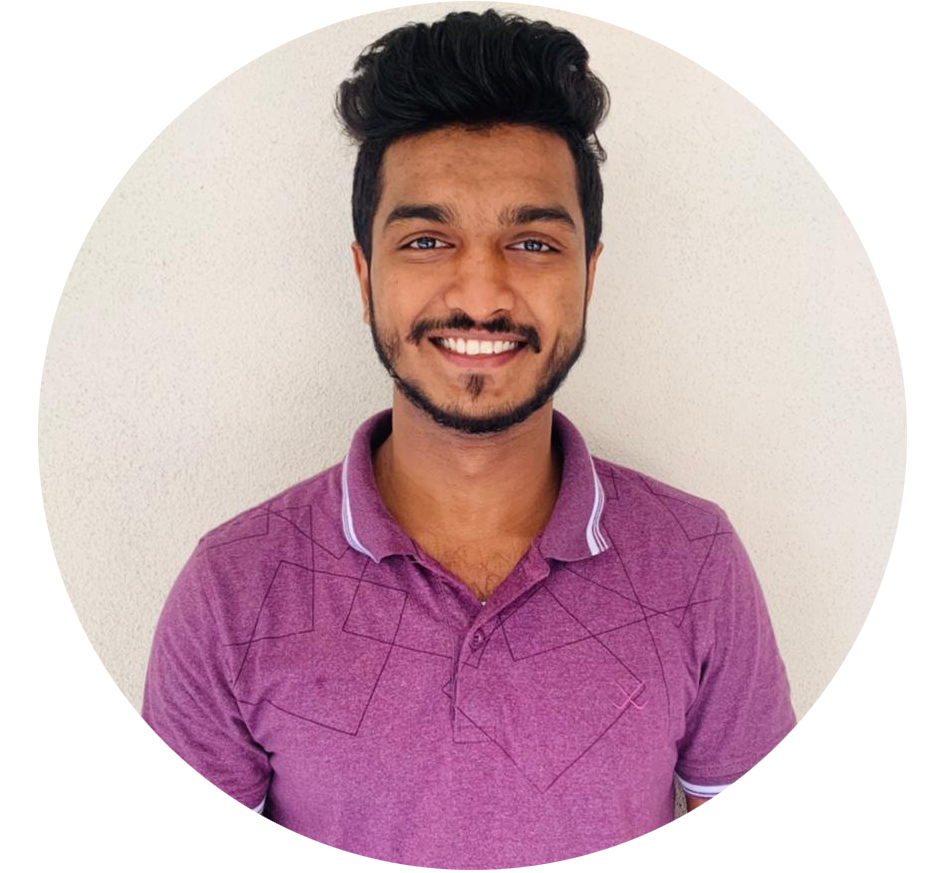
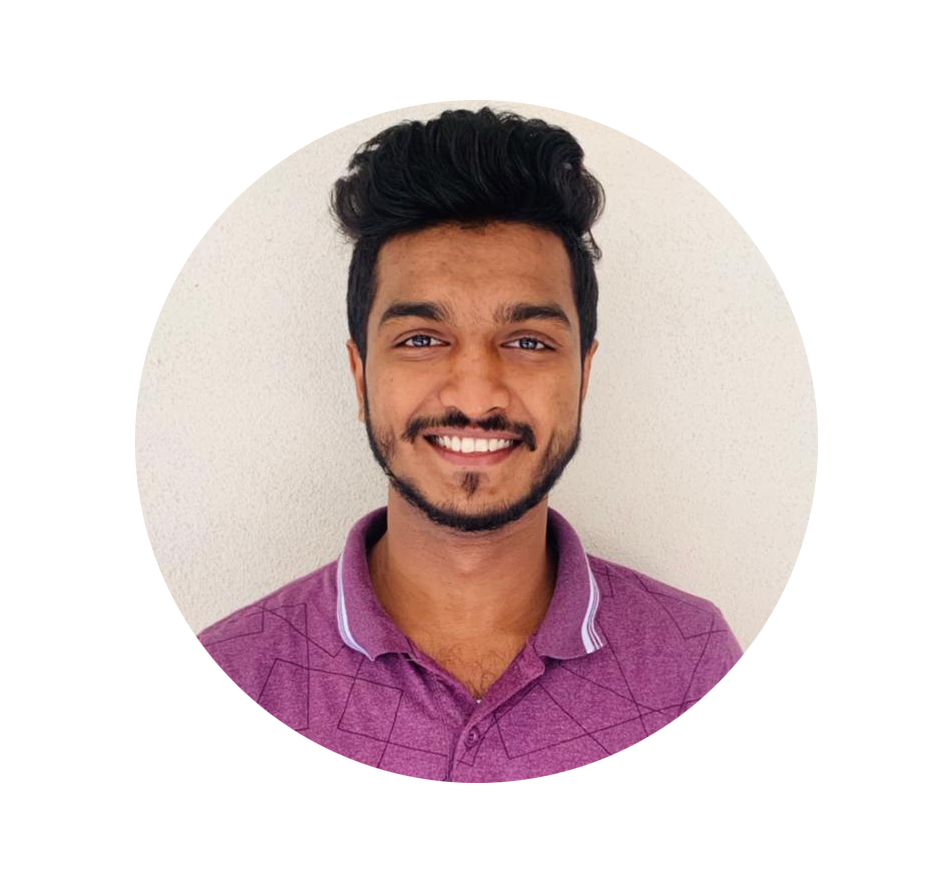
About section was created

diff --git a/src/Components/About/About.jsx b/src/Components/About/About.jsx
@@ -1,0 +1,66 @@
+import React from "react";
+import "./About.css";
+import mypic from "../../assets/my-picture.jpg";
+
+const About = () => {
+  return (
+    <div className="about">
+      <div className="about-title">
+        <h1>About Me</h1>
+        {/* <img src={mypic} alt="" style={{ width: "300px" }} /> */}
+      </div>
+      <div className="about-section">
+        <div className="about-left">
+          <img
+            src={mypic}
+            alt=""
+            style={{ width: "300px", borderRadius: "30px" }}
+          />
+        </div>
+        <div className="about-right">
+          <div className="about-para">
+            <p>afdsafdsaf</p>
+            <p>
+              afdfa adsfdsafdsa sad f dsafds aasfdsafdsa sadfadsfdsaf asfdsafds
+              asfadsf safdsaf dsafds fdsfsdaf ds fds f dsa fads f dsaf da sf
+              dsaf dsa dsf fdsafdsafdsaf dsfdsa fds f sad f dsa fdsaf dsaf dsf
+              dsafdsf
+            </p>
+          </div>
+          <div className="about-skills">
+            <div className="about-skill">
+              <p>Java</p> <hr style={{ width: "80%" }} />
+            </div>
+            <div className="about-skill">
+              <p>Python</p> <hr style={{ width: "70%" }} />
+            </div>
+            <div className="about-skill">
+              <p>Javascript</p> <hr style={{ width: "70%" }} />
+            </div>
+            <div className="about-skill">
+              <p>HTML & CSS</p> <hr style={{ width: "80%" }} />
+            </div>
+          </div>
+        </div>
+      </div>
+      <div className="about-achivemets">
+        <div className="about-achivement">
+          <h1>2+</h1>
+          <p>Years of experience</p>
+        </div>
+        <hr />
+        <div className="about-achivement">
+          <h1>5+</h1>
+          <p>Projects Completed</p>
+        </div>
+        <hr />
+        <div className="about-achivement">
+          <h1>10+</h1>
+          <p>Happy Clients</p>
+        </div>
+      </div>
+    </div>
+  );
+};
+
+export default About;

diff --git a/src/Components/About/About.css b/src/Components/About/About.css
@@ -1,0 +1,106 @@
+.about{
+    display: flex;
+    flex-direction: column;
+    align-items: center;
+    justify-content: center;
+    gap: 80px;
+    margin: 80px 170px;
+}
+
+.about-title{
+    position: relative;
+}
+
+.about-title h1{
+    padding: 0px 30px;
+    font-size: 50px;
+    font-weight: 600;
+}
+
+.about-title img{
+    position: absolute;
+    bottom: 0;
+    right: 0;
+    z-index: -1;
+}
+
+.about-section{
+    display: flex;
+    gap: 80px;
+}
+
+.about-right{
+    display: flex;
+    flex-direction: column;
+    gap: 80px;
+}
+
+.about-para{
+    display: flex;
+    flex-direction: column;
+    gap: 20px;
+    font-size: 24px;
+    font-weight: 500;
+}
+
+.about-skills{
+    display: flex;
+    flex-direction: column;
+    gap: 20px;
+}
+
+.about-skill{
+    display: flex;
+    gap: 50px;
+    align-items: center;
+    transition: 0.3s;
+}
+.about-skill:hover{
+    transform: scale(1.05);
+}
+.about-skill p{
+    min-width: 150px;
+    font-size: 20px;
+    font-weight: 500;
+}
+.about-skill hr{
+    outline: none;
+    border: none;
+    width: 50%;
+    height: 6px;
+    border-radius: 50px;
+    background: linear-gradient(267deg, #59ac00  0.36%, #004702  102.06%);
+}
+
+.about-achivemets{
+    display: flex;
+    width: 100%;
+    justify-content: space-around;
+    margin-bottom: 80px;
+}
+
+.about-achivement{
+    display: flex;
+    flex-direction: column;
+    align-items: center;
+    gap: 10px;
+    transition: 0.3s;
+}
+.about-achivement:hover{
+    transform: scale(1.05);
+}
+.about-achivement h1{
+    font-size: 60px;
+    font-weight: 700;
+    background: linear-gradient(267deg, #c1ff80  0.36%, #01b607  102.06%);
+    background-clip: text;
+    -webkit-background-clip: text;
+    -webkit-text-fill-color: transparent;
+}
+.about-achivement p{
+    font-size: 22px;
+    font-weight: 500;
+}
+
+
+

diff --git a/src/Components/Hero/Hero.jsx b/src/Components/Hero/Hero.jsx
@@ -1,11 +1,12 @@
 import React from "react";
 import "./Hero.css";
 import profPic from "../../assets/profile_pic.png";
+// import profPic from "../../assets/Profile-Photo.png";
 
 const Hero = () => {
   return (
     <div className="hero">
-      <img src={profPic} alt="" style={{ width: "300px" }}></img>
+      <img src={profPic} alt="" style={{ width: "400px" }}></img>
       <h1>
         <span>I'm Manuranga,</span> Full Stack Developer in Sri Lanka
       </h1>

diff --git a/src/App.jsx b/src/App.jsx
@@ -1,12 +1,14 @@
 import React from "react";
 import Navbar from "./Components/Navbar/Navbar";
 import Hero from "./Components/Hero/Hero";
+import About from "./Components/About/About";
 
 const App = () => {
   return (
     <div>
       <Navbar />
       <Hero />
+      <About />
     </div>
   );
 };
